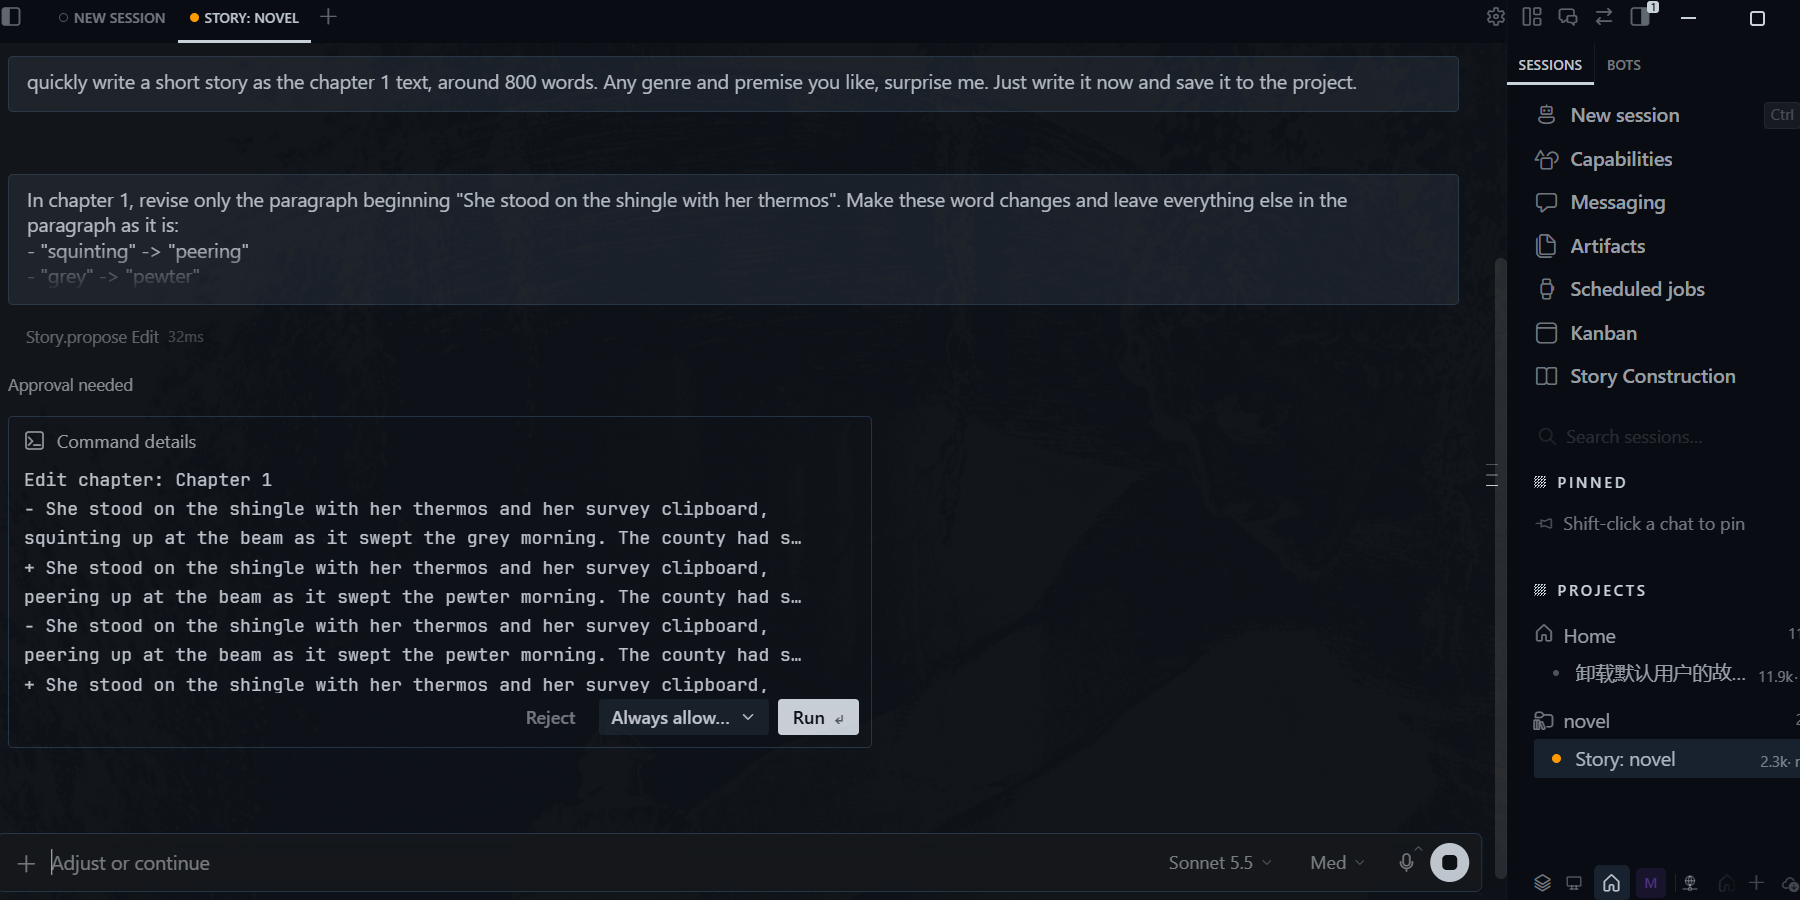
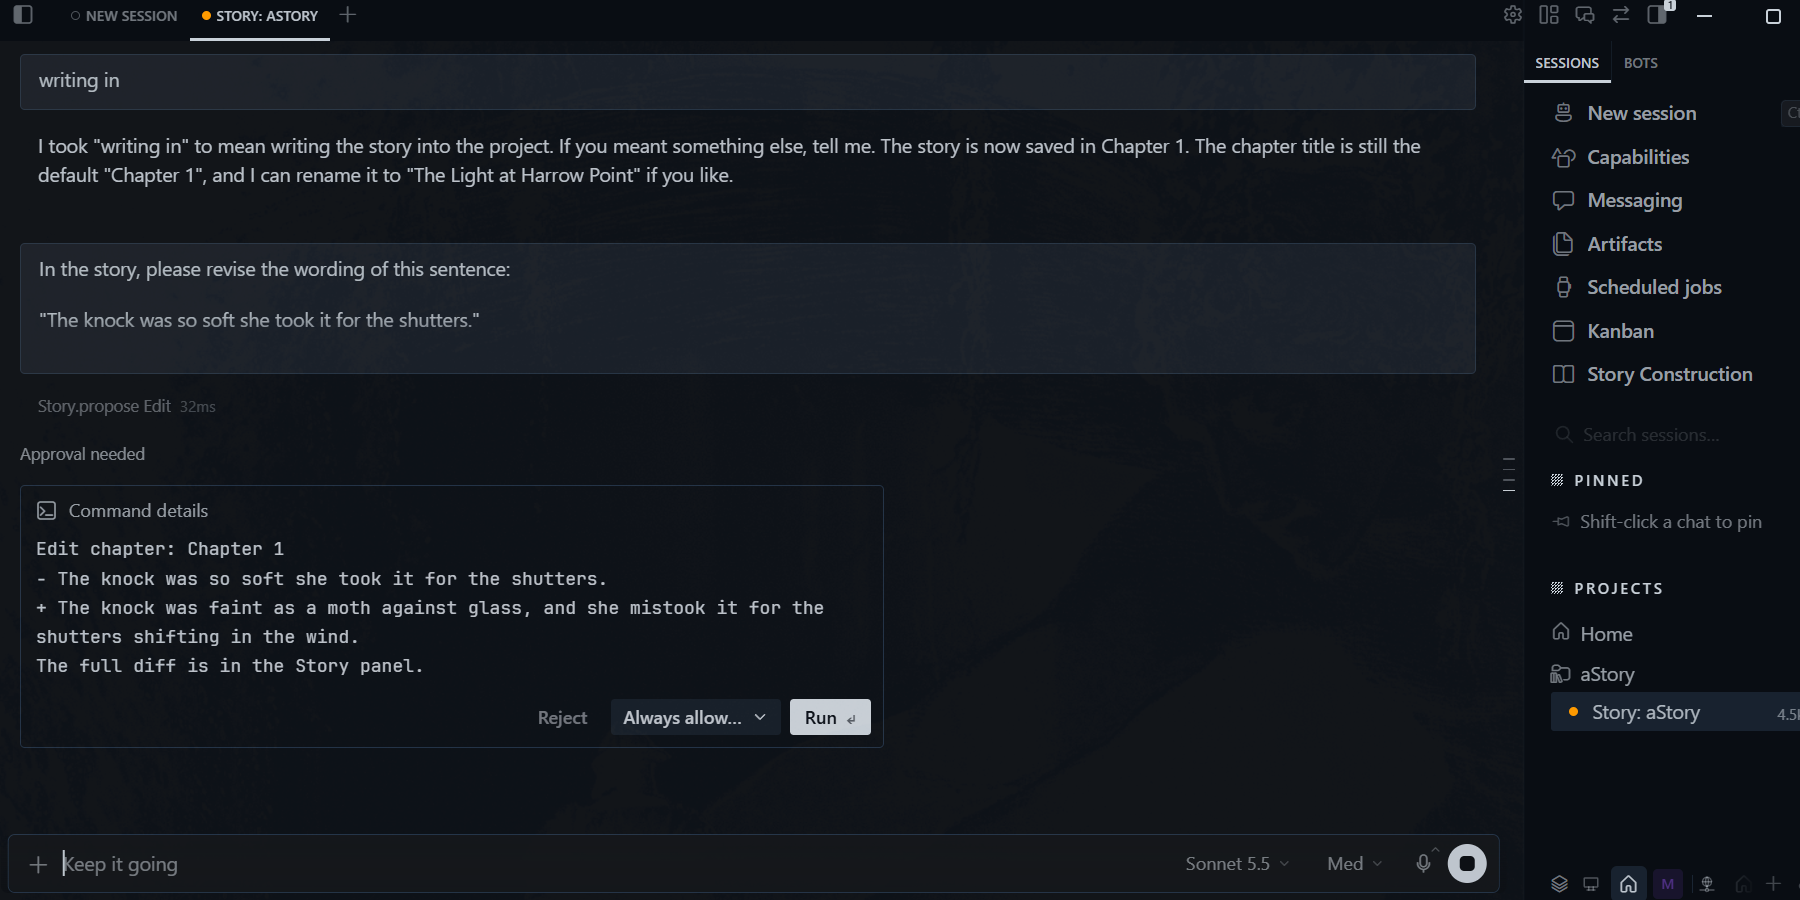
docs: update the screenshots

diff --git a/README.md b/README.md
@@ -35,9 +35,9 @@ not something it has been tested for.
 
 ## Screenshots
 
-**Project workspace**: chapters and notes on the left, the chapter editor in the
-middle, the writing sessions on the right. *Undo the Agent's last write* sits
-beside Save.
+**Project workspace**: chapters, world info, characters and notes on the left,
+the open record in the middle (here a character card the Agent wrote), the
+writing sessions on the right. *Undo the Agent's last write* sits at the top.
 
 ![Project workspace](docs/image/workspace.png)
 
